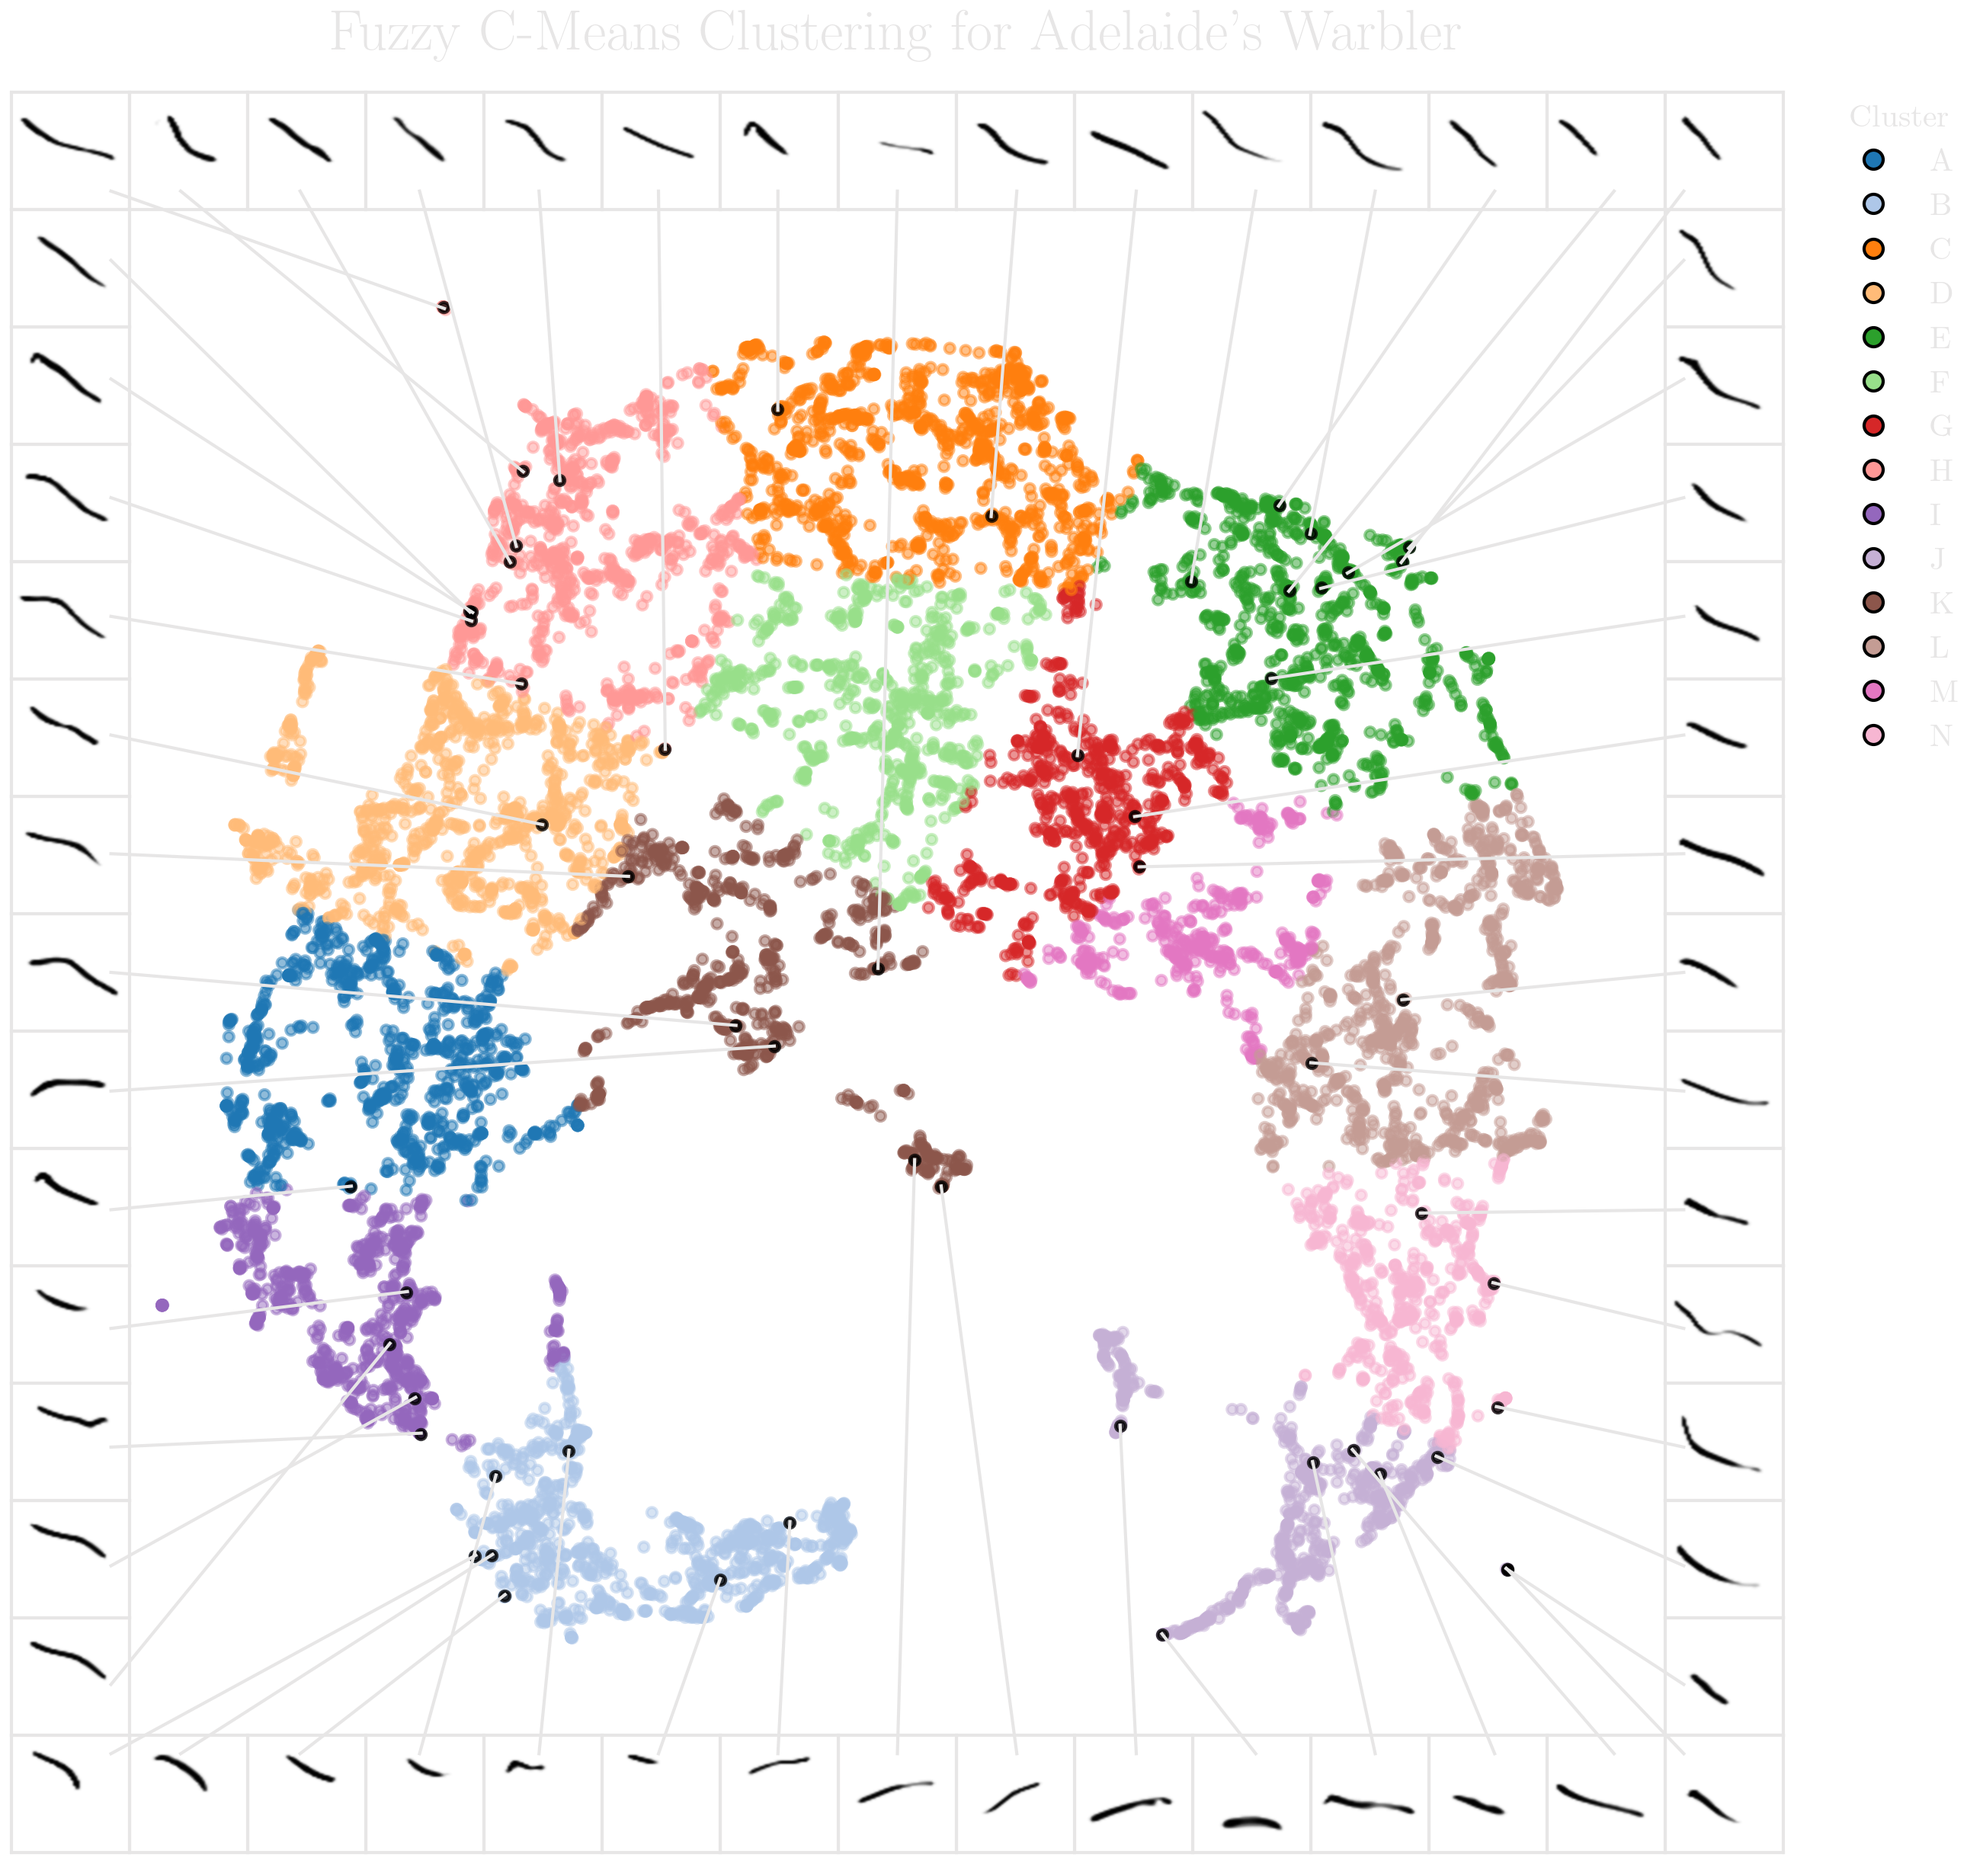
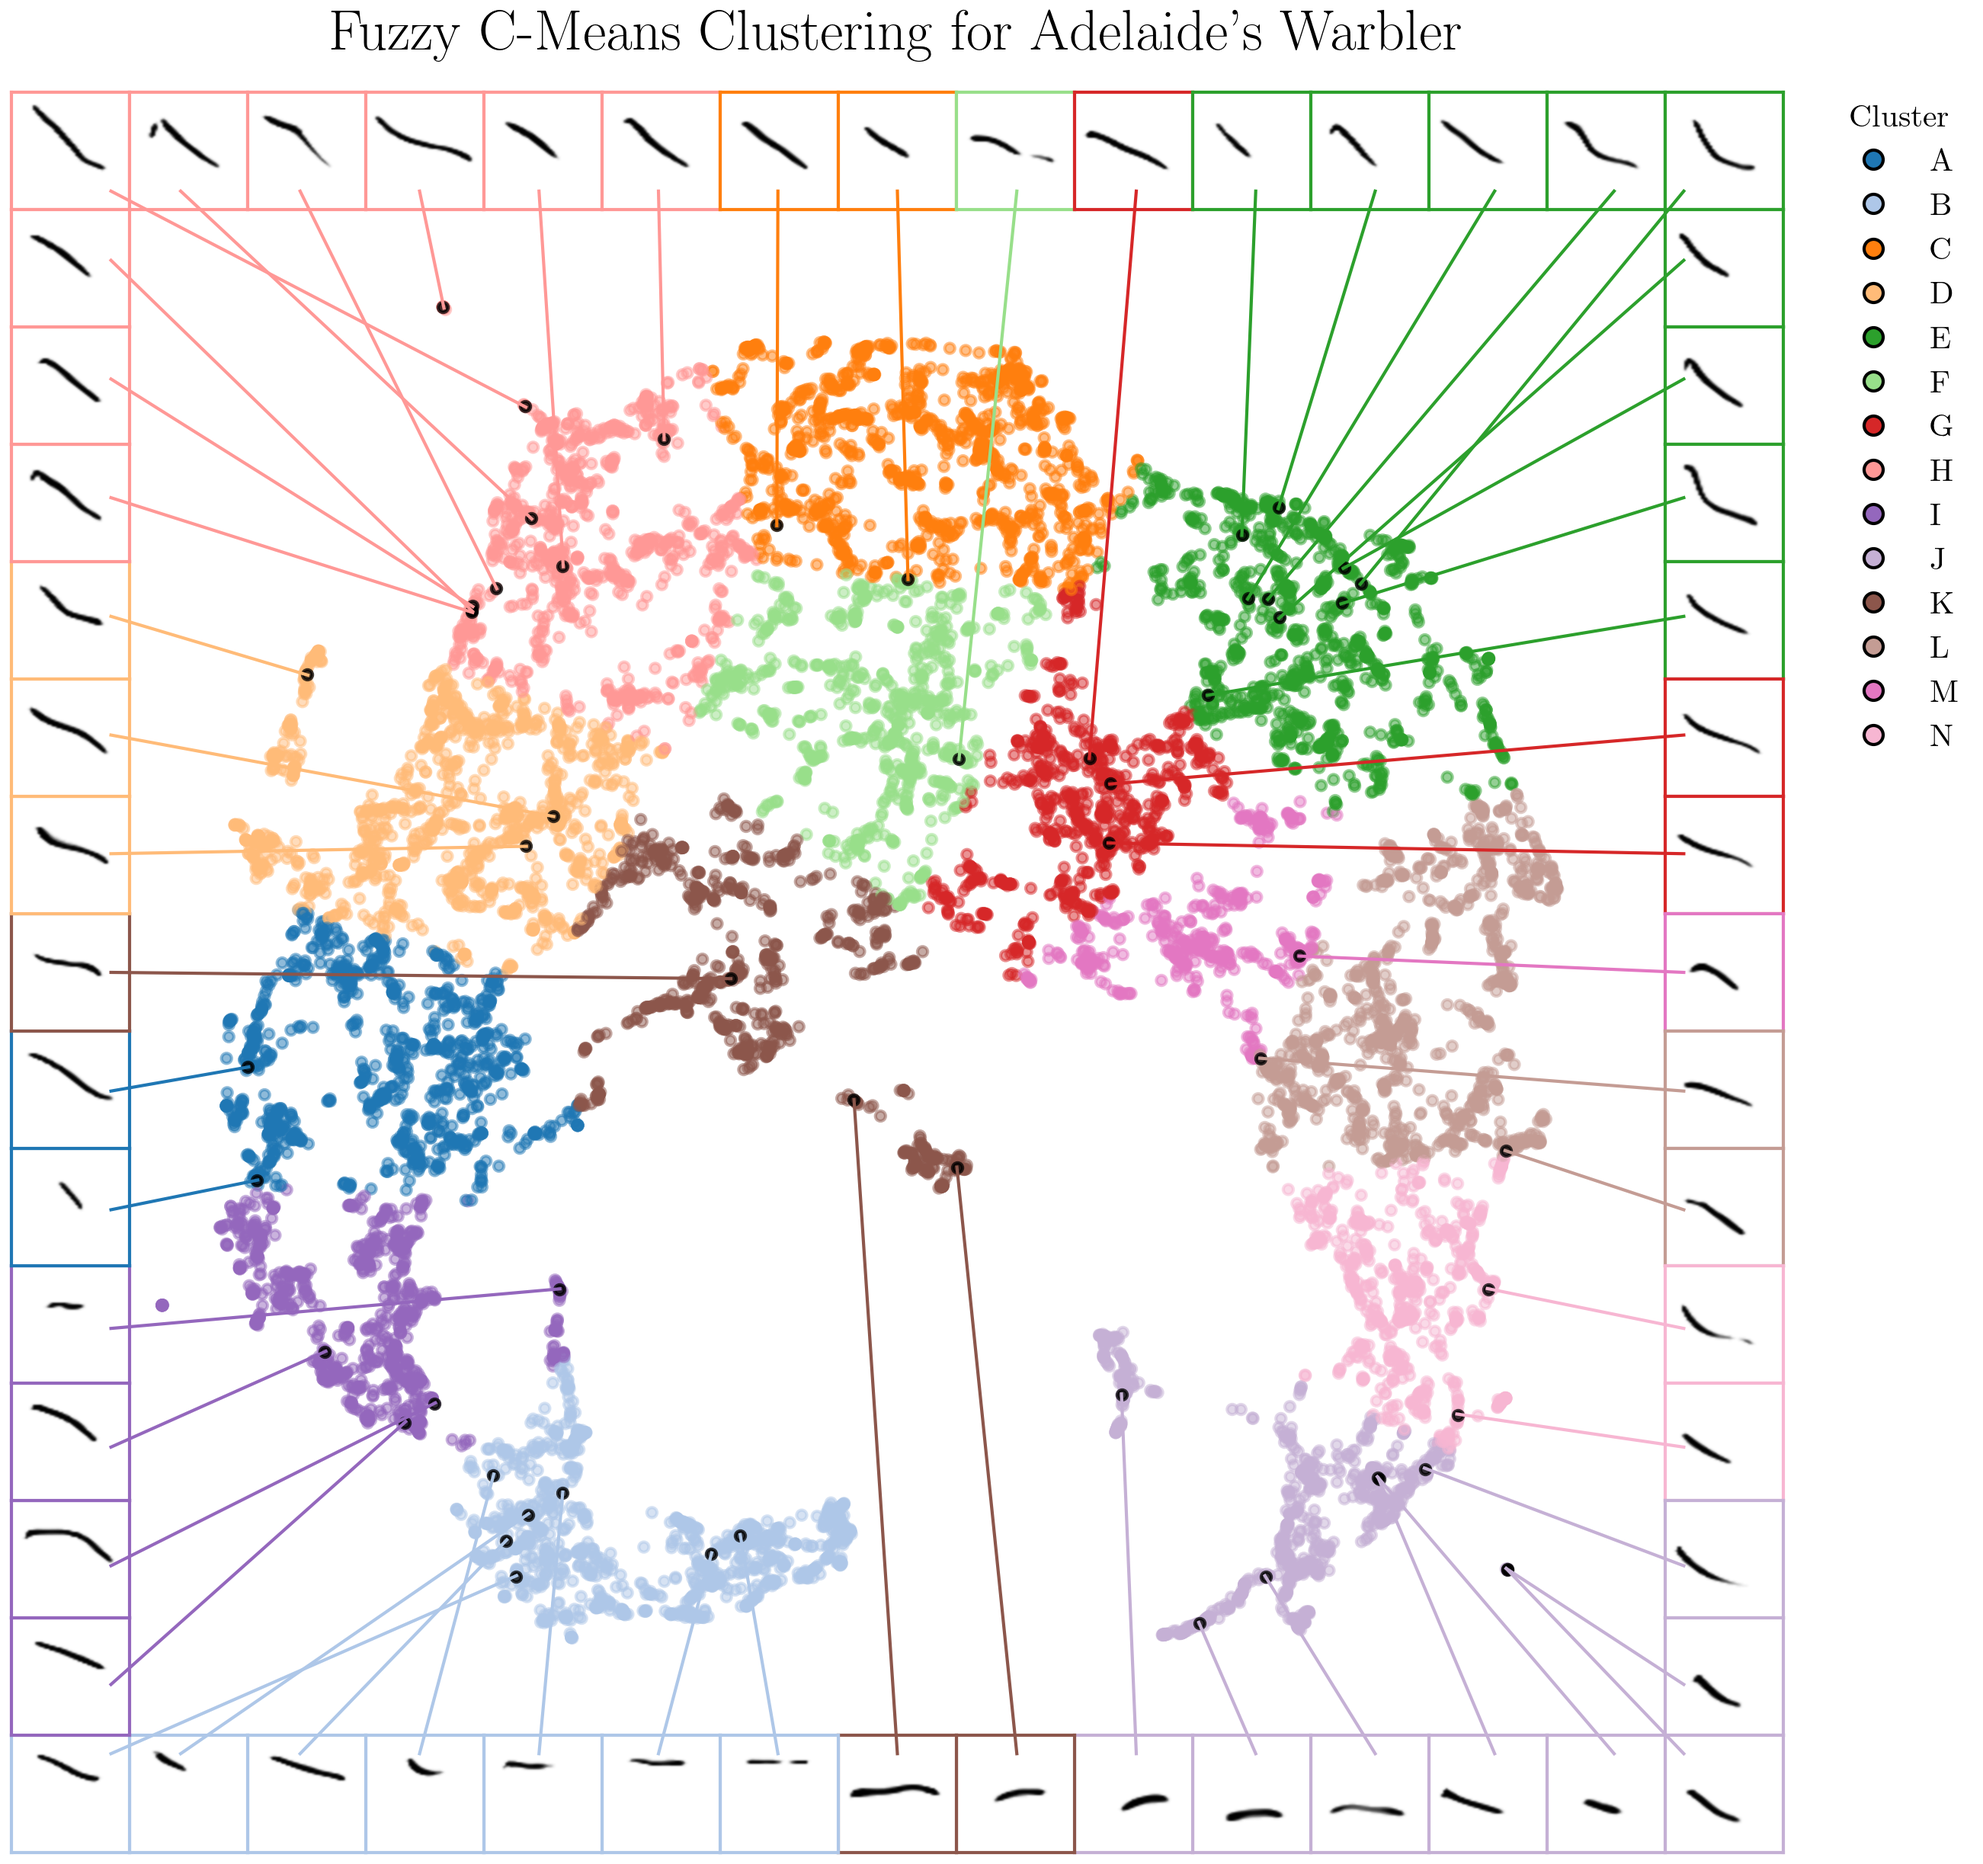
Improve code

diff --git a/warbler/datatype/builder.py b/warbler/datatype/builder.py
@@ -165,7 +165,7 @@ class Plot:
         self,
         figure: Figure | None = None,
         filename: str | None = None,
-        transparent: bool = True
+        transparent: bool = False
     ) -> None:
         if filename is None:
             filename = 'plot.png'

diff --git a/warbler/visualization/voronoi/fcm.py b/warbler/visualization/voronoi/fcm.py
@@ -147,9 +147,6 @@ def individual(save: bool = False) -> None:
 def main() -> None:
     plt.style.use('science')
 
-    path = SETTINGS.joinpath('dark.mplstyle')
-    plt.style.use(path)
-
     # Create a voronoi plot for the entire dataset
     dataset(save=True)
 

diff --git a/warbler/datatype/voronoi.py b/warbler/datatype/voronoi.py
@@ -407,8 +407,6 @@ class Builder(Base):
                     ]
                 )
 
-                line['color'] = '#e7e6e6'
-
                 lines.append(
                     Line2D(
                         [infig_position_start[0], infig_position[0]],

diff --git a/README.md b/README.md
@@ -1,6 +1,10 @@
 ## warbler
 
-warbler is a pipeline for segmenting, clustering and visualizing Adelaide's warbler songs based on the repositories of Dr. Tim Sainburg ([AVGN](https://github.com/timsainb/avgn_paper) and [vocalization segmentation](https://github.com/timsainb/vocalization-segmentation)) and Dr. Mara Thomas ([UMAP Tutorial](https://github.com/marathomas/tutorial_repo)) using a dataset from Dr. David Logue of [The Birdsong Lab](http://david-logue.squarespace.com/).
+warbler is a pipeline for segmenting, clustering and visualizing Adelaide's warbler songs, which uses a dataset from Dr. David Logue of [The Birdsong Lab](http://david-logue.squarespace.com/). This pipeline uses [UMAP](https://umap-learn.readthedocs.io/en/latest/) to perform dimensionality reduction, and [HDBSCAN](https://hdbscan.readthedocs.io/en/latest/how_hdbscan_works.html) and [Fuzzy C-Means clustering](https://fuzzy-c-means.readthedocs.io/en/latest/) for clustering.
+
+This research is motivated by the repositories of Dr. Tim Sainburg ([AVGN](https://github.com/timsainb/avgn_paper) and [vocalization segmentation](https://github.com/timsainb/vocalization-segmentation)) and Dr. Mara Thomas ([UMAP Tutorial](https://github.com/marathomas/tutorial_repo))
+
+## Dimensionality Reduction and Fuzzy C-Means Clustering
 
 <p align="center">
     <img src="asset/cluster.png" alt="The dimensionality reduction and clustering of a Adelaide's warbler dataset" width="100%"/>
